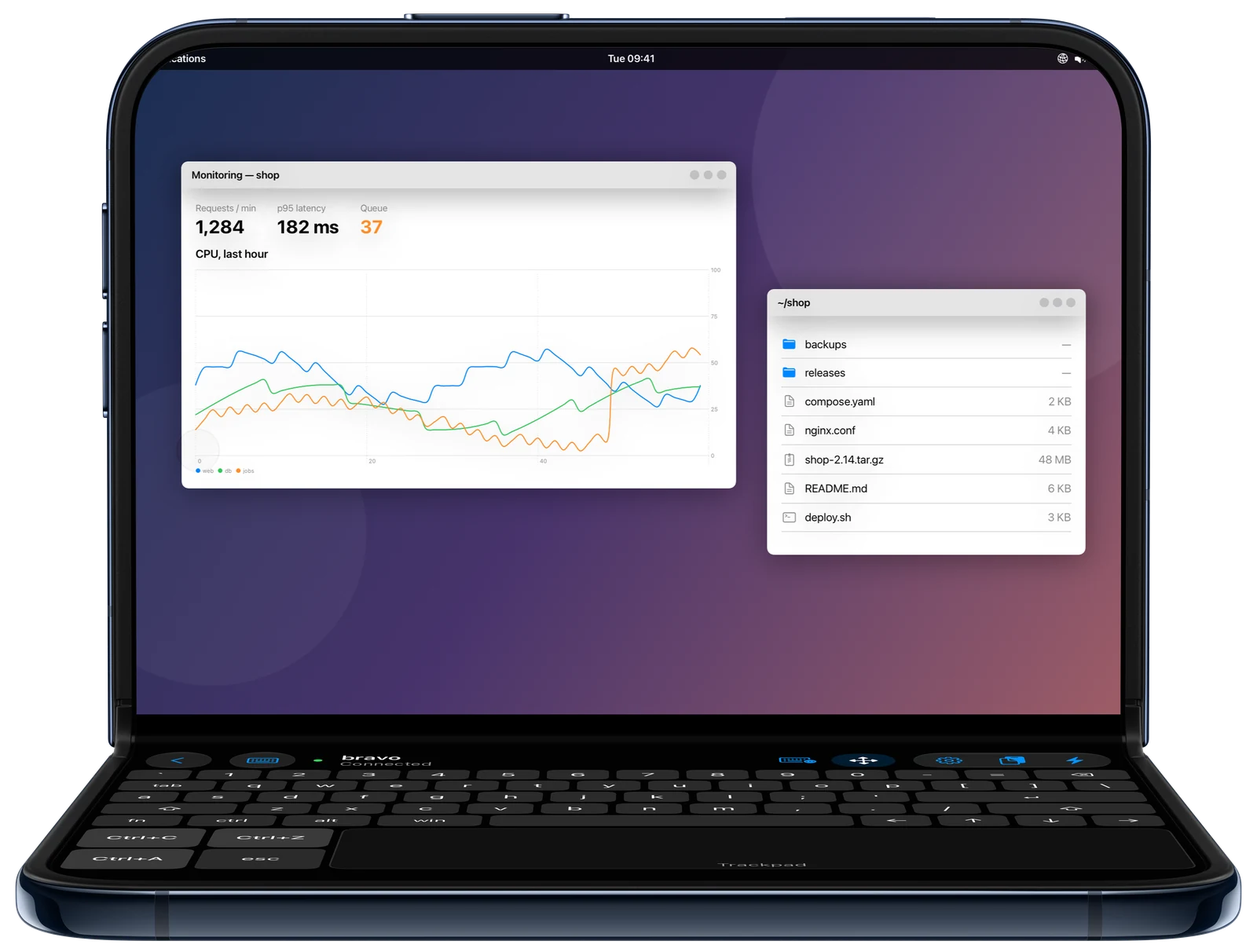
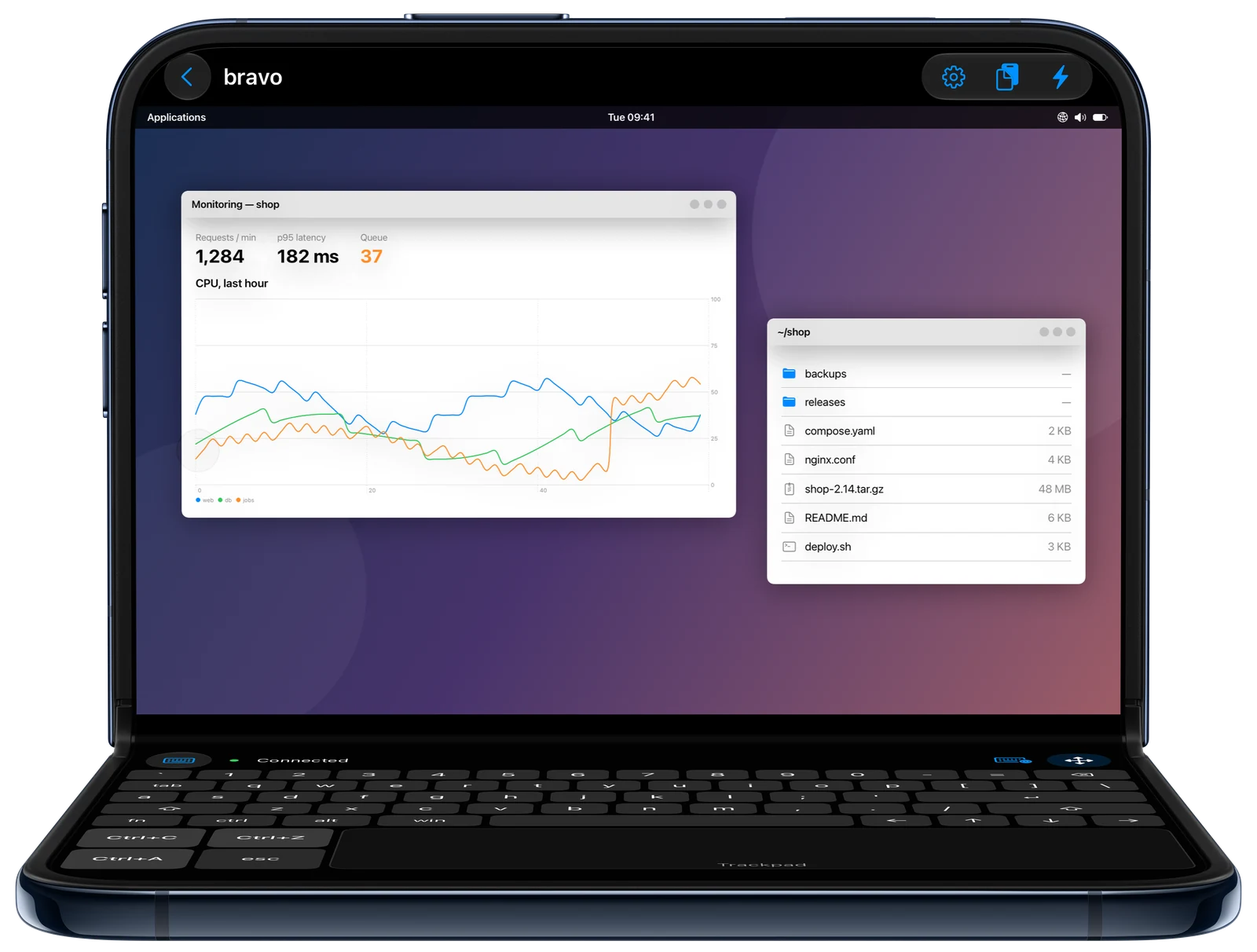
iPhone Duo stood like a laptop: the controls in a band clear of the screen's corners, the desktop full width below (0.4.591)
The screen's rounded corners cut off the remote desktop's menu bar. Stood like a laptop, a 40-point band at the top
now holds Back, the desktop's name, and Settings, Clipboard and the lightning button in small glass, inset by the
system's container corner insets; the remote screen has the full width from there to the fold. The strip under the
fold is back to the switch, the state, Keys and the arrows, and the fold deck's back button is gone again.

The Duo test checks the screen full width below the band and the controls clear of the corners; seen failing with
the controls at the band's floor and with no band. The site's Duo picture, its words, the help and the release notes
follow.

diff --git a/Sources/GlassDesktop/DesktopSessionView.swift b/Sources/GlassDesktop/DesktopSessionView.swift
@@ -70,7 +70,7 @@ public struct DesktopSessionView: View {
     /// sits above it and the deck below, with the trackpad.
     @State private var deviceFold: GlassDeviceFold?
     /// The ⚡, handed down by the cover the desktop is shown in on a phone: stood like a laptop, the
-    /// bar that has it is put away and the strip under the fold has it, after Back (`onClose`).
+    /// bar that has it is put away, and the band above the remote screen has it (`laptopBar`).
     @Environment(\.glassActiveConnectionsRoute) private var activeConnectionsRoute
     #endif
 
@@ -243,8 +243,9 @@ public struct DesktopSessionView: View {
                           panel: GlassFoldDeckPanel(title: "Keys and Trackpad", systemImage: "rectangle.and.hand.point.up.left") {
                               DesktopFoldKeysPanel(session: session)
                           },
-                          controlsColorScheme: .dark, back: onClose) {
+                          controlsColorScheme: .dark) {
                 VStack(spacing: 0) {
+                    if laptopFold != nil { laptopBar }
                     picture
                     errorBanner
                 }
@@ -255,9 +256,9 @@ public struct DesktopSessionView: View {
             .onChange(of: laptopFold != nil, initial: true) { _, laptop in
                 session.keyboardAccessoryWithheld = laptop
             }
-            // Stood like a laptop, the remote screen has the whole top half, up to the fold: no
-            // status bar and no bar over it (the owner, 2026-11-03, after Sill and Headroom; Apple:
-            // content above the fold, controls below). What the bar had is in the strip under it.
+            // Stood like a laptop, the remote screen has the top half's full width, from just below
+            // the screen's rounded corners to the fold: no status bar, and the bar's controls small,
+            // in the band above it (`laptopBar`; the owner, 2026-11-03, after another app's).
             .statusBarHidden(laptopFold != nil)
             .toolbarVisibility(laptopFold != nil ? .hidden : .automatic, for: .navigationBar)
             // One bar of controls at a time: while the keyboard is up its own bar has the keys, the
@@ -546,33 +547,61 @@ public struct DesktopSessionView: View {
     /// The fold across the window: an iPhone Duo stood like a laptop.
     private var laptopFold: GlassDeviceFold? { deviceFold.flatMap { $0.isAcross ? $0 : nil } }
 
-    /// The deck's strip below the fold: the desktop's name and state, the Keys menu and the arrow
-    /// pad, as the status bar has them, then what the put-away bar had — Settings, Clipboard and the
-    /// ⚡. Back and the deck's switch (the keyboard's or the trackpad's) come before it.
+    /// The deck's strip below the fold: the connection's state, the Keys menu and the arrow pad,
+    /// as the status bar has them; the deck's switch beside it is the keyboard's or the trackpad's.
     private var foldStrip: some View {
         HStack(spacing: 12) {
             Circle().fill(session.isConnected ? .green : .secondary).frame(width: 6, height: 6)
-            VStack(alignment: .leading, spacing: 0) {
-                Text(windowTitle).font(.subheadline.weight(.semibold)).lineLimit(1)
-                Text(session.status).font(.caption).foregroundStyle(.secondary).lineLimit(1)
-            }
-            .accessibilityElement(children: .combine)
+            Text(session.status).font(.caption).lineLimit(1)
             Spacer(minLength: 4)
             DesktopKeysMenu(session: session).labelStyle(.iconOnly).glassBarItem()
             DesktopArrowPad(session: session).glassBarItem()
-            HStack(spacing: 2) {
-                sessionActions
-                    .labelStyle(.iconOnly)
-                    .frame(width: 40, height: 40)
-                if let route = activeConnectionsRoute {
-                    GlassActiveConnectionsBolt(show: { session.releaseInput(); route.show() },
-                                               dismissCurrent: route.dismissCurrent)
-                        .frame(width: 40, height: 40)
-                }
-            }
-            .padding(.horizontal, 4)
-            .glassEffect(.regular.interactive(), in: .capsule)
         }
+    }
+
+    /// The band's height, stood like a laptop: below it the screen's rounded corners take no more than
+    /// about 3 points from the remote screen's top row at each side (measured on Apple's iPhone Duo
+    /// bezel, 2026-11-03), so the remote screen has the full width from there to the fold.
+    static let laptopBarHeight: CGFloat = 40
+
+    /// What the bar has, stood like a laptop, in small glass in the band above the remote screen —
+    /// Back, the desktop's name, Settings, Clipboard and the ⚡ — kept out of the screen's rounded
+    /// corners by as much as the system says to (`containerCornerInsets`), as another app on the Duo
+    /// keeps its own (the owner, 2026-11-03: "the small variants of the glass nav").
+    private var laptopBar: some View {
+        GeometryReader { proxy in
+            let corners = proxy.containerCornerInsets
+            HStack(spacing: 8) {
+                if let onClose {
+                    Button("Connections", systemImage: "chevron.backward") { onClose() }
+                        .labelStyle(.iconOnly)
+                        .frame(width: 32, height: 32)
+                        .glassEffect(.regular.interactive(), in: .circle)
+                        .accessibilityIdentifier("session.laptop.back")
+                }
+                Text(windowTitle).font(.subheadline.weight(.semibold)).lineLimit(1)
+                    .accessibilityAddTraits(.isHeader)
+                Spacer(minLength: 8)
+                HStack(spacing: 0) {
+                    sessionActions
+                        .labelStyle(.iconOnly)
+                        .frame(width: 36, height: 32)
+                    if let route = activeConnectionsRoute {
+                        GlassActiveConnectionsBolt(show: { session.releaseInput(); route.show() },
+                                                   dismissCurrent: route.dismissCurrent)
+                            .frame(width: 36, height: 32)
+                    }
+                }
+                .padding(.horizontal, 4)
+                .glassEffect(.regular.interactive(), in: .capsule)
+            }
+            .font(.subheadline)
+            .padding(.leading, max(12, corners.topLeading.width))
+            .padding(.trailing, max(12, corners.topTrailing.width))
+            .frame(width: proxy.size.width, height: proxy.size.height)
+        }
+        .frame(height: Self.laptopBarHeight)
+        .environment(\.colorScheme, .dark)
     }
     #endif
 

diff --git a/UITests/DuoDeckUITests.swift b/UITests/DuoDeckUITests.swift
@@ -139,30 +139,34 @@ final class DuoDeckUITests: XCTestCase {
         XCTAssertTrue(shortcut.waitForLabel("Ctrl+T", timeout: 5), "Control and T, recorded (\(shortcut.label))")
     }
 
-    /// Stood like a laptop, the remote screen has the whole top half: no status bar and no bar over
-    /// it (the owner, 2026-11-03). What the bar had is under the fold, and only there: Back, Settings,
-    /// Clipboard and the ⚡; and Back still leaves the desktop. (The library kept under the desktop
-    /// has a bar and a "Connections" of its own in the tree, so the bar's chevron is looked for in
-    /// a bar.)
-    func testTheRemoteScreenHasTheWholeTopHalf() throws {
+    /// Stood like a laptop, the remote screen has the top half's full width, from a band just below the screen's
+    /// rounded corners to the fold (the owner, 2026-11-03: "give the full width to the VM after the curve"). No
+    /// status bar and no navigation bar: the bar's controls are small, in that band, clear of the corners — Back,
+    /// Settings, Clipboard and the ⚡ — and Back still leaves the desktop. (The library kept under the desktop has a
+    /// bar and a "Connections" of its own in the tree, so the bar's chevron is looked for in a bar.)
+    func testTheRemoteScreenHasTheTopHalfBelowItsBand() throws {
         let pad = try launchDesktop()
         let screen = app.descendants(matching: .any).matching(NSPredicate(format: "label == %@", "Remote desktop")).firstMatch
         XCTAssertTrue(screen.waitForExistence(timeout: 10), "the remote screen")
         let window = app.windows.firstMatch.frame
-        XCTAssertLessThan(screen.frame.minY - window.minY, 1,
-                          "the remote screen starts at the window's top: \(screen.frame) in \(window)")
-        let back = element("glass-fold-deck-back")
-        XCTAssertTrue(back.waitForExistence(timeout: 5), "Back, in the strip")
+        XCTAssertEqual(screen.frame.width, window.width, accuracy: 1, "the full width: \(screen.frame) in \(window)")
+        XCTAssertEqual(screen.frame.minY - window.minY, 40, accuracy: 1, "just below the 40-point band: \(screen.frame)")
+        let back = element("session.laptop.back")
+        XCTAssertTrue(back.waitForExistence(timeout: 5), "Back, in the band")
         XCTAssertEqual(app.navigationBars.buttons.matching(NSPredicate(format: "label == %@", "Connections")).count, 0,
-                       "no bar with Back over the desktop")
-        for (name, query) in [("Back", app.descendants(matching: .any).matching(identifier: "glass-fold-deck-back")),
+                       "no navigation bar with Back over the desktop")
+        for (name, query) in [("Back", app.descendants(matching: .any).matching(identifier: "session.laptop.back")),
                               ("Settings", app.descendants(matching: .any).matching(identifier: "session.display")),
                               ("Clipboard", app.buttons.matching(NSPredicate(format: "label == %@", "Clipboard"))),
                               ("the ⚡", app.descendants(matching: .any).matching(identifier: "active-connections-bolt"))] {
             // Every match: a control and its own label can both carry the name, at one place.
             let frames = query.allElementsBoundByIndex.map(\.frame)
-            XCTAssertFalse(frames.isEmpty, "\(name) in the strip")
-            XCTAssertTrue(frames.allSatisfy { $0.minY > screen.frame.maxY }, "\(name) under the fold only, not in a bar as well: \(frames)")
+            XCTAssertFalse(frames.isEmpty, "\(name) in the band")
+            XCTAssertTrue(frames.allSatisfy { $0.maxY <= screen.frame.minY + 1 }, "\(name) above the remote screen only: \(frames)")
+            // Out of the screen's rounded corners, as far as the system says for a band this high (20 points on
+            // the Duo; at the band's own 12-point floor a control's top corner would be under the curve).
+            XCTAssertTrue(frames.allSatisfy { $0.minX >= window.minX + 16 && $0.maxX <= window.maxX - 16 },
+                          "\(name) clear of the corners: \(frames)")
         }
         back.tap()
         XCTAssertTrue(pad.waitForNonExistence(timeout: 10), "Back left the desktop")

diff --git a/site/pages/index.html b/site/pages/index.html
@@ -230,11 +230,11 @@ description: Terminals, databases, remote desktops and an editor for Apple Visio
 
 <section class="band">
   <h2>iPhone Duo</h2>
-  <p class="intro">Half open like a small laptop, each session keeps its work above the fold and its keys below, and a remote desktop has the whole top half to itself. Held like a book, the inner screen is two pages, for any two sessions side by side. Coming to the beta with 0.4.574; the desktop's whole top half, after it.</p>
+  <p class="intro">Half open like a small laptop, each session keeps its work above the fold and its keys below, and a remote desktop has the top half's full width. Held like a book, the inner screen is two pages, for any two sessions side by side. Coming to the beta with 0.4.574; the desktop's full-width top half, after it.</p>
   <div class="devices duo">
     <figure>
-      <img class="bezel" src="static/shots/duo-laptop-desktop-full-top.webp" width="1600" height="1212" loading="lazy" alt="An iPhone Duo half open like a small laptop. Above the fold, the remote desktop bravo fills the whole top half, from the top edge to the fold: a monitoring window with a chart of the last hour and a folder of the shop's files. Just under the fold, a strip with the back button, the keyboard switch, bravo and Connected, Keys, the arrow pad, Settings, Clipboard and the lightning button; below it, the desktop's own keyboard with fn, ctrl, alt and win keys and arrows, three shortcut buttons, Ctrl+C, Ctrl+Z and Ctrl+A, Escape, and a trackpad.">
-      <figcaption><strong>Half open.</strong> A remote desktop with the whole top half; under the fold, its controls, a keyboard that sends real shortcuts, and a trackpad.</figcaption>
+      <img class="bezel" src="static/shots/duo-laptop-desktop-full-top.webp" width="1600" height="1212" loading="lazy" alt="An iPhone Duo half open like a small laptop. At the top, inside the screen's rounded corners, small glass controls: the back button, the desktop's name, bravo, then Settings, Clipboard and the lightning button. Below them the remote desktop, the screen's full width down to the fold: its menu bar, a monitoring window with a chart of the last hour and a folder of the shop's files. Under the fold, a strip with the keyboard switch, Connected, Keys and the arrow pad; then the desktop's own keyboard with fn, ctrl, alt and win keys and arrows, three shortcut buttons, Ctrl+C, Ctrl+Z and Ctrl+A, Escape, and a trackpad.">
+      <figcaption><strong>Half open.</strong> A remote desktop the full width of the top half, its controls small above it; under the fold, a keyboard that sends real shortcuts, and a trackpad.</figcaption>
     </figure>
     <figure>
       <img class="bezel" src="static/shots/duo-book-terminal-database.webp" width="1600" height="1286" loading="lazy" alt="An iPhone Duo held open like a book, showing two pages. On the left page, a terminal on alpha running btop, with the CPU's graph, memory and the shop's processes. On the right page, the shop database's orders table: a SQL query above the rows.">

diff --git a/Sources/GlassConnectionUI/GlassFoldDeck.swift b/Sources/GlassConnectionUI/GlassFoldDeck.swift
@@ -101,9 +101,6 @@ public struct GlassFoldDeck<Work: View, Strip: View, Panel: View>: View {
     /// Put away, the keyboard counts as away whatever frame the system still reports (on a Duo stood
     /// like a laptop, an empty keyboard reported the whole lower half, D93).
     private let keyboardWanted: Bool?
-    /// The way back to the library, first in the strip, for a tool that puts its bar away while the
-    /// phone is stood like a laptop (the desktop, D93): the bar's chevron, moved under the fold.
-    private let back: (@MainActor () -> Void)?
     @State private var policy: GlassFoldDeckPolicy
     @State private var frame: CGRect = .zero
     @State private var keyboardShown = false
@@ -117,12 +114,11 @@ public struct GlassFoldDeck<Work: View, Strip: View, Panel: View>: View {
 
     public init(fold: Binding<GlassDeviceFold?>, start: GlassFoldDeckPolicy.Start = .keyboard,
                 keyboard: GlassFoldDeckKeyboard, keyboardWanted: Bool? = nil, panel: GlassFoldDeckPanel<Panel>?,
-                controlsColorScheme: ColorScheme? = nil, back: (@MainActor () -> Void)? = nil,
+                controlsColorScheme: ColorScheme? = nil,
                 @ViewBuilder work: () -> Work, @ViewBuilder strip: () -> Strip) {
         _fold = fold
         self.keyboard = keyboard
         self.keyboardWanted = keyboardWanted
-        self.back = back
         self.panel = panel
         self.controlsColorScheme = controlsColorScheme
         self.work = work()
@@ -175,7 +171,6 @@ public struct GlassFoldDeck<Work: View, Strip: View, Panel: View>: View {
     private func deck(below fold: GlassDeviceFold) -> some View {
         VStack(spacing: 8) {
             HStack(spacing: 12) {
-                if let back { backButton(back) }
                 keyboardSwitch
                 strip
                     .frame(maxWidth: .infinity)
@@ -207,14 +202,6 @@ public struct GlassFoldDeck<Work: View, Strip: View, Panel: View>: View {
         .frame(width: 44, height: 44)
         .glassEffect(.regular.interactive(), in: .circle)
         .accessibilityIdentifier("glass-fold-deck-keyboard")
-    }
-
-    private func backButton(_ back: @escaping @MainActor () -> Void) -> some View {
-        Button("Connections", systemImage: "chevron.backward") { back() }
-            .labelStyle(.iconOnly)
-            .frame(width: 44, height: 44)
-            .glassEffect(.regular.interactive(), in: .circle)
-            .accessibilityIdentifier("glass-fold-deck-back")
     }
 
     /// A fresh fold's keyboard is asked for again a moment later: the first request can arrive

diff --git a/site/help/desktop-input.md b/site/help/desktop-input.md
@@ -42,13 +42,13 @@ Drag on the arrow pad to send arrow keys: one for each short step, along the dir
 - **Trackpad** — the default on iPhone and in a narrow iPad window. Drag anywhere to move the pointer, tap to click where it sits, and tap with two fingers to right-click. Tap, then drag, to move something. If the remote computer does not draw a pointer, the app draws one so you can see where it is.
 - **Direct Touch** — the default in a full-width iPad window. Touching the screen presses the button at that point, which suits a large screen or Apple Pencil. A two-finger tap does not right-click here; use **Trackpad**, or a connected mouse or trackpad.
 
-**On iPhone Duo, half open and standing like a small laptop**, the remote screen has the whole top half, from the top edge to the fold, with no status bar or toolbar over it, and the bottom half has a keyboard and a trackpad at once. Folding it half open brings them up. A desktop that can change its size, such as Windows and most Linux desktops, is resized to fill the half. A Mac's screen keeps its own shape, so it has black above and below.
+**On iPhone Duo, half open and standing like a small laptop**, the remote screen has the top half's full width, from just below the screen's rounded corners down to the fold, and the bottom half has a keyboard and a trackpad at once. There is no status bar; the toolbar's controls are small, in the band above the remote screen: the back button, the desktop's name, **Settings**, **Clipboard** and ⚡. Folding it half open brings them up. A desktop that can change its size, such as Windows and most Linux desktops, is resized to fill the half. A Mac's screen keeps its own shape, so it has black above and below.
 
 - **The keyboard** sends each key as the remote computer's own keyboard would, so shortcuts work: **ctrl**, **alt** and **win** (on a Mac over VNC, **ctrl**, **opt** and **⌘**) and **⇧** are held for the next key, and light up while they are. **fn** turns the number row into F1–F12 and the arrows into Home, Page Up, Page Down and End for the next key. Hold **⌫** or an arrow to repeat it.
 - **The shortcut buttons** beside the trackpad start as Copy, Undo and Select All (Ctrl+C, Ctrl+Z and Ctrl+A on a PC; ⌘C, ⌘Z and ⌘A on a Mac). To change one, touch and hold it until it says **Type…**, then type the keys you want on the keyboard, for example **ctrl**, **⇧** and **t**. Shortcuts are kept on this device, apart for PCs and Macs. **esc** is beside them.
 - **The trackpad:** one finger moves the pointer, a tap clicks, tap then drag drags, two fingers scroll, and a two-finger tap right-clicks; each click is felt.
 
-Between the fold and the keys, a strip has what the toolbar has the rest of the time: the back button, the desktop's name and the connection's state, **Keys** and the arrow pad, **Settings**, **Clipboard** and ⚡. **Show Keyboard**, beside the back button, brings up the iPhone's own keyboard for typing text, with its dictation; **Keys and Trackpad** goes back.
+Between the fold and the keys, a strip shows the connection's state, **Keys** and the arrow pad. **Show Keyboard**, at the strip's start, brings up the iPhone's own keyboard for typing text, with its dictation; **Keys and Trackpad** goes back.
 
 In both modes, two fingers scroll the remote desktop, and a connected trackpad or mouse moves the pointer when you hover. The choice is this desktop window's, kept on this device. To choose for every desktop window, use **Pointer** in **All Desktops** (the same as **Settings** > **Desktops**), where **Automatic** chooses as described above. See [Give a desktop window its own settings](desktop-sessions.md#give-a-desktop-window-its-own-settings).
 

diff --git a/memory-bank/activeContext.md b/memory-bank/activeContext.md
@@ -31,7 +31,11 @@ use the disposable test VM only).
 | 8 | History rewrite, then the first push | only on the owner's word. Scanned 2026-10-18: today's tree is clean (one test fixed, de0610d); old file versions, the session log once committed and about 20 commit messages hold private details (the specifics are in `.private/`, never committed). Then, at his word, main became the checked rewrite (history kept, private values replaced, cited commit ids translated; 799 commits). The original history is archived outside the repository, a pre-push hook refuses anything descending from it, and `origin` pushes main only (details in `.private/`). **Pushed 2026-10-18:** github.com/msitarzewski/GlassPowerTools is public, main only; README, description, website and private vulnerability reporting set; the site says the source is public. Further pushes still on his word |
 | 9 | App Store listing (iPhone, iPad, Vision Pro) | started 2026-10-18 at his word ("free, start now"): the listing's text and App Store Connect answers in `Documentation/AppStore/`, `PRIVACY.md` and `SUPPORT.md` rendered by the site build, the app's privacy manifest (`App/PrivacyInfo.xcprivacy`, missing until now), and screenshots from `Tools/Screenshots/store_shots.sh`. Committed at his word; 0.4.480 to TestFlight (the iPad database fix and the manifest); the site staged. 1.0 when it ships, TestFlight stays 0.4.n. Accessibility audit approved and done (2026-10-18, five naming fixes; labels not yet declarable). The iPhone Duo checked on every page and six problems fixed; the largest text sizes fixed at his word (2026-10-19), then the terminal's 28-point maximum, text following the system size, and the iPad editor's wider file list (same day); a wrapped paste joined again (`2026-10-19_wrapped-paste.md`). All of these, the page tour, the framed-screenshot tools and D83 (tmux tabs as control-mode clients, `2026-10-19_tmux-scrollback.md`) committed at his word on 2026-10-19; 0.4.483 holds them. TestFlight next, on his word. Open for him: a demo server for App Review, the France encryption declaration, an App Store Connect API key (lets the listing, builds and TestFlight groups be set from here). Proposed, not started: translations (the app is English-only). Task note `tasks/2026-10/2026-10-18_app-store-listing.md` |
 
-## 2026-11-03 — RESUME HERE: the Duo's desktop gets the whole top half (0.4.591, uncommitted)
+## 2026-11-03 — RESUME HERE: the Duo's desktop gets the top half's full width, below a band (0.4.591)
+- **Latest:** his "the curve eating the top of the screen": his choice, a 40-pt band with small glass controls inset
+  by `containerCornerInsets`, the remote screen full width below it. Built, tested (bites), the site picture taken
+  again; committed and pushed. 0.4.591 (with the band) installed on Vision Pro and read back; the iPhone was
+  unavailable to devicectl all afternoon (`~/Software/glass/tmp/install-591.sh`). The site waits for his staging.
 - **His ask**, with a photo of another app: "How are they getting a full screen on the top for the desktop?"
   Answered (Sill read from source, Headroom from coverage): no status bar or bar over the picture, and the Mac's
   picture shaped to the half. His choice: "yes, do the bars first".

diff --git a/memory-bank/tasks/2026-11/2026-11-03_duo-desktop-top-half.md b/memory-bank/tasks/2026-11/2026-11-03_duo-desktop-top-half.md
@@ -91,3 +91,23 @@ is unverified on a real Mac.
   site at 1280 wide (dark) and 390 wide (light): pictures load, no sideways scroll.
 - **Seen, not changed:** on Vision Pro the carousel's front tile is lighter and clearer than the site's terminal
   window at the same glass (the room's TV shows through it); for his headset check of D99.
+
+## The corners: a band for the controls, the full width below it (same day)
+- **His report** on the site picture: "a little akward... the curve eating the top of the screen" — the screen's
+  rounded corners cut off the remote's menu bar ("Applications" read "cations").
+- **Measured** on Apple's iPhone Duo bezel (its screen opening, 3 px per point): the corner hides 32 pt at 5 pt down,
+  23 at 10, 12 at 20, 6 at 30, 2.7 at 40, 1 at 50, none by about 65. Offered four fixes with these numbers; **his
+  choice: the top band, full width,** with "the small variants of the glass nav … inset our own controls accordingly,
+  and give the full width to the VM after the curve", as the app in his photo does.
+- **Built:** stood like a laptop, a 40-point band at the top (`DesktopSessionView.laptopBar`, `laptopBarHeight`)
+  holds Back, the desktop's name, and Settings, Clipboard and the ⚡ in a small glass capsule; the remote screen has
+  the full width from there to the fold. The controls are inset by `GeometryProxy.containerCornerInsets` (iOS 26):
+  measured on the Duo simulator, 55 × 55 pt for the whole view at rest, 20 pt for the 40-point band, which sits the
+  controls just inside the curve; a 12-point floor. The strip under the fold is back to the switch, state, Keys and
+  arrows; `GlassFoldDeck`'s `back:` (this morning's) removed, the file as before today.
+- **Test:** `testTheRemoteScreenHasTheTopHalfBelowItsBand` — the remote screen full width, 40 pt down; no navigation
+  bar; Back, Settings, Clipboard and the ⚡ above it, at least 16 pt from each side; Back leaves. Seen failing with
+  the controls at the 12-point floor (Back at x 12) and with no band (the screen at y 0); restored, compared. The Duo
+  suite: five pass; the two keyboard-switch tests fail as before (the simulator's hardware keyboard).
+- The site's Duo picture taken again with the band (same new file name; the site wasn't deployed in between), and
+  its words, the help and the release notes follow.

diff --git a/RELEASE-NOTES.md b/RELEASE-NOTES.md
@@ -102,10 +102,11 @@ work lands. What is verified, and how, is in [memory-bank/progress.md](memory-ba
 ## Recent builds
 
 ### 0.4.591 (3 November 2026)
-- **iPhone Duo stood like a small laptop: the remote desktop has the whole top half.** No status bar and no toolbar
-  over it, as other remote desktop apps on the Duo do; the back button, **Settings**, **Clipboard** and ⚡ move to
-  the strip under the fold, beside the desktop's name, **Keys** and the arrow pad. A desktop that can change its size
-  (Windows, most Linux desktops) is resized to fill the half; a Mac's screen keeps its shape.
+- **iPhone Duo stood like a small laptop: the remote desktop has the top half's full width.** It runs from just
+  below the screen's rounded corners down to the fold, so they no longer cut off its menu bar or a window's close
+  button. There is no status bar; the back button, the desktop's name, **Settings**, **Clipboard** and ⚡ are small
+  glass controls in the band above it, kept as far from the corners as the system asks. A desktop that can change
+  its size (Windows, most Linux desktops) is resized to fill the space; a Mac's screen keeps its shape.
 
 ### 0.4.590 (3 November 2026)
 - **A window's overview and its carousel on iPhone, iPad and Vision Pro** (D99), as on the Mac. **Terminal View**
